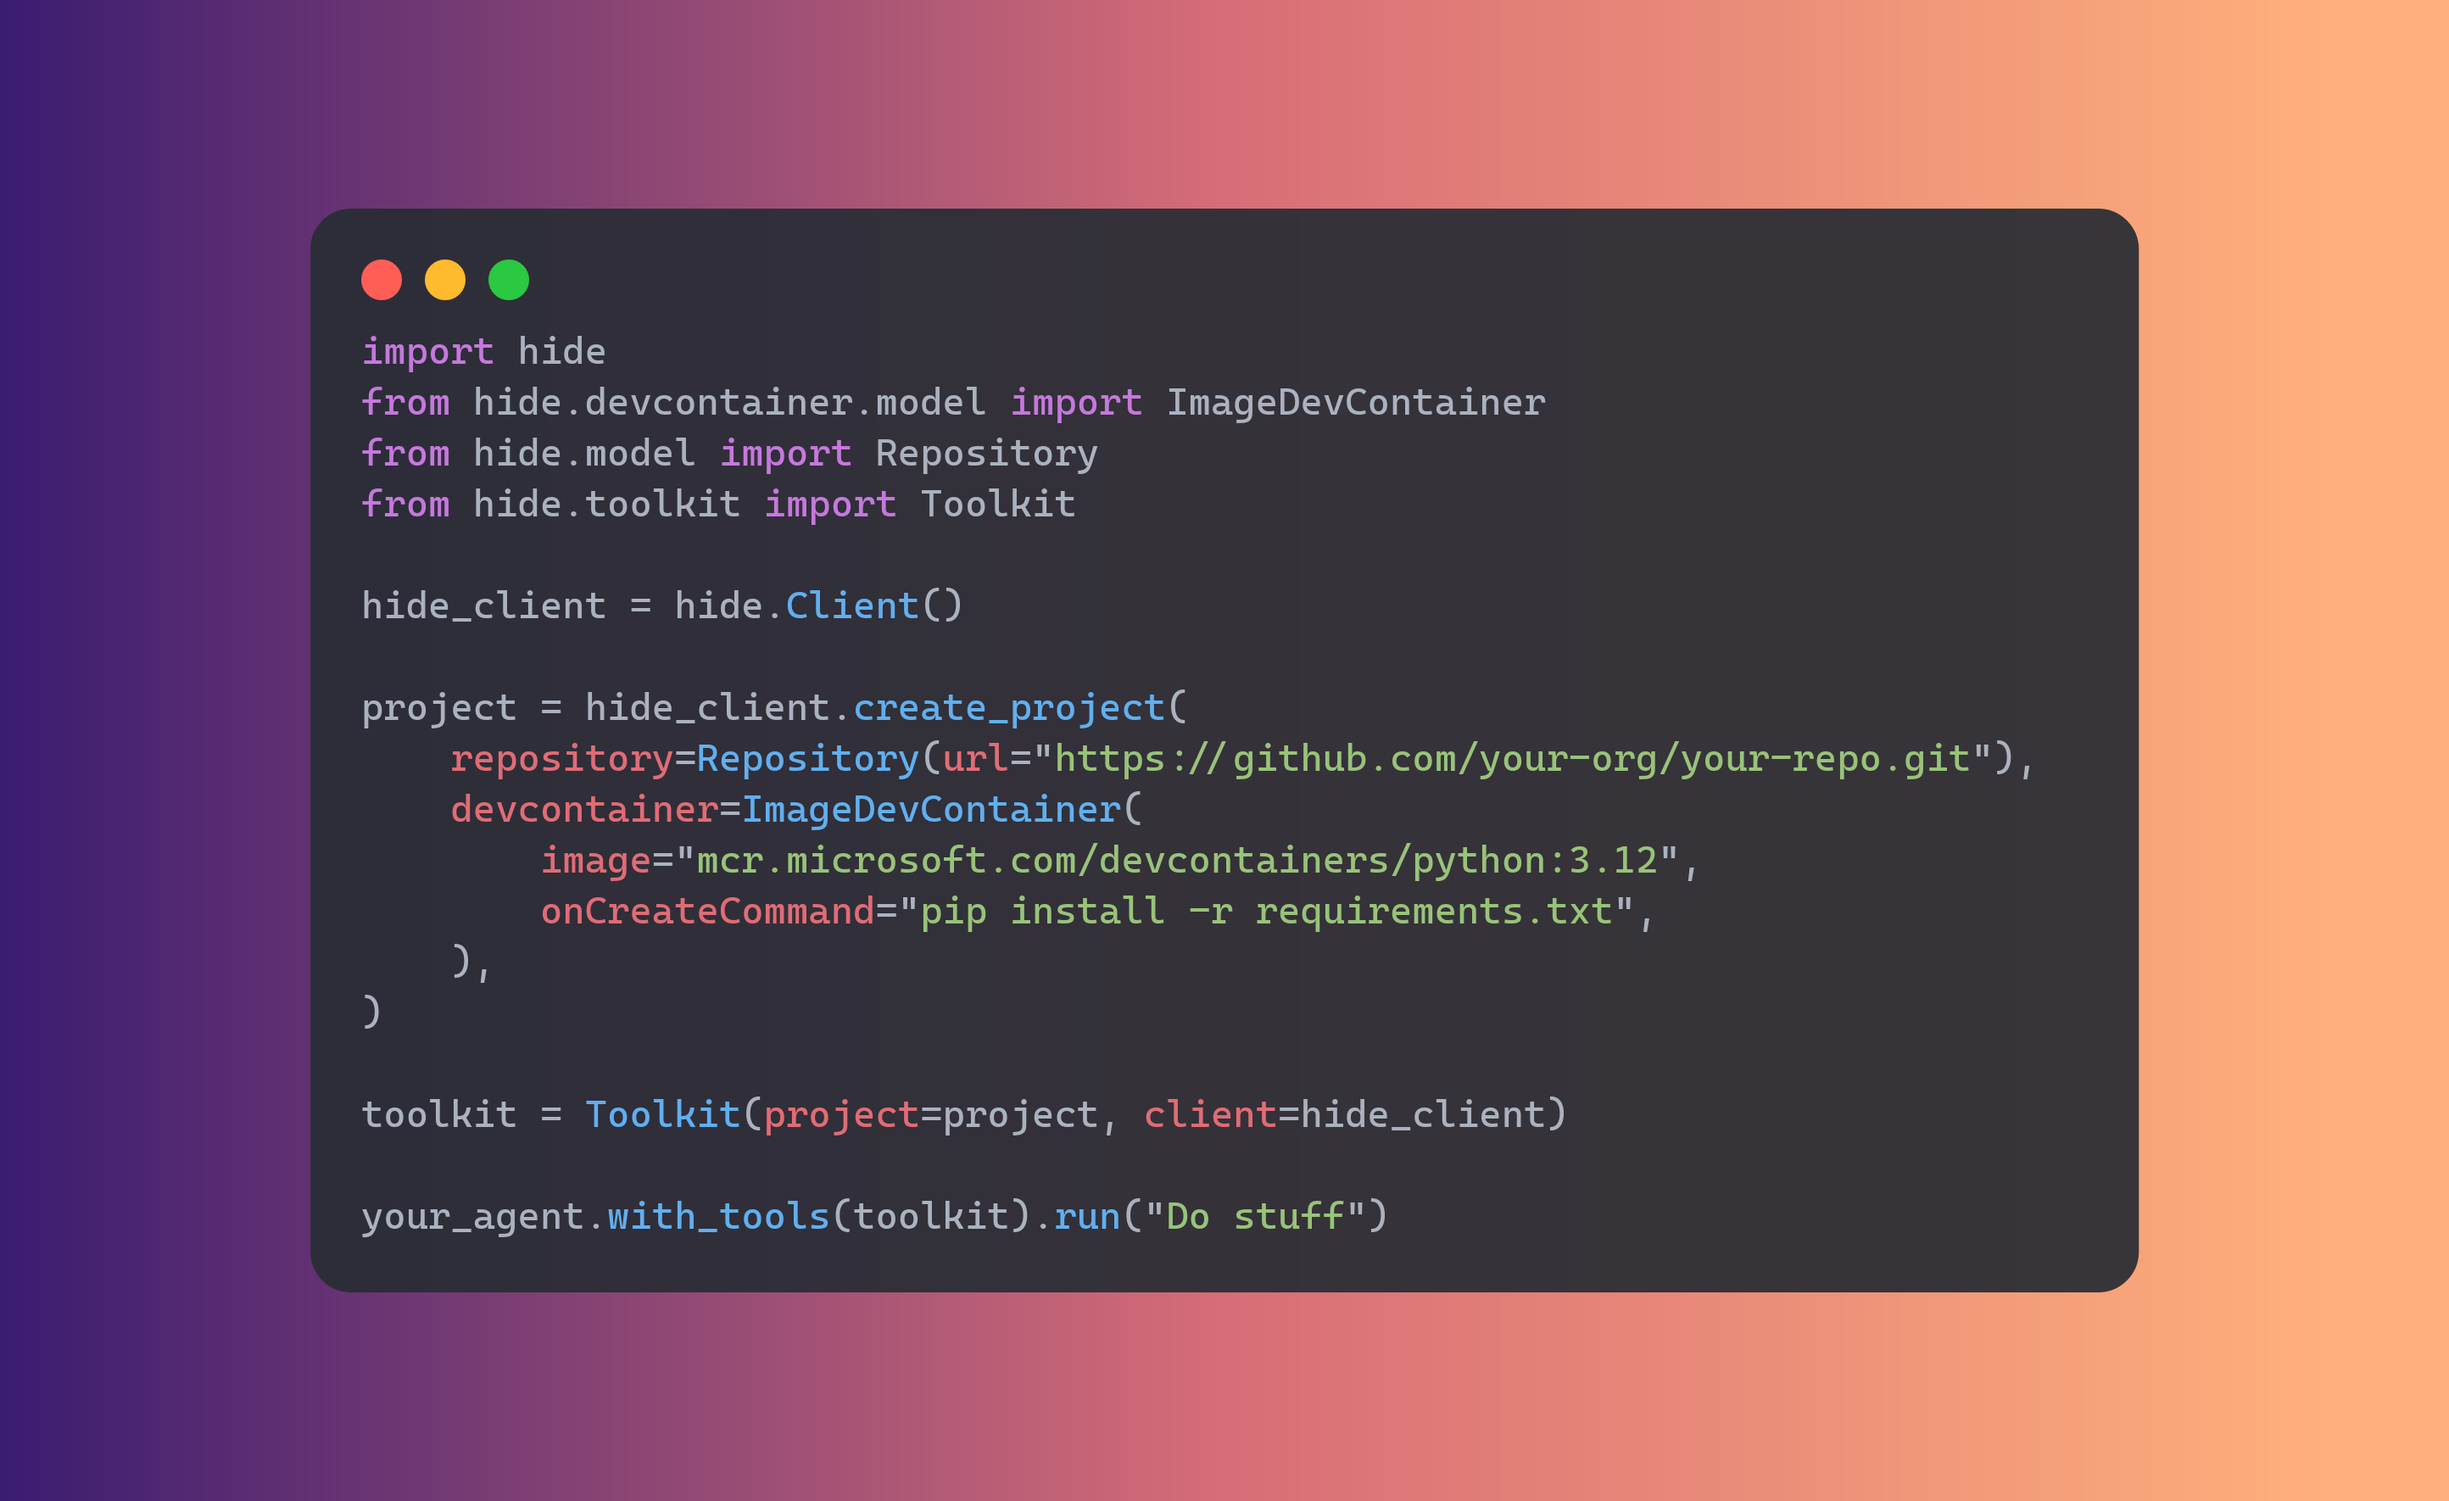
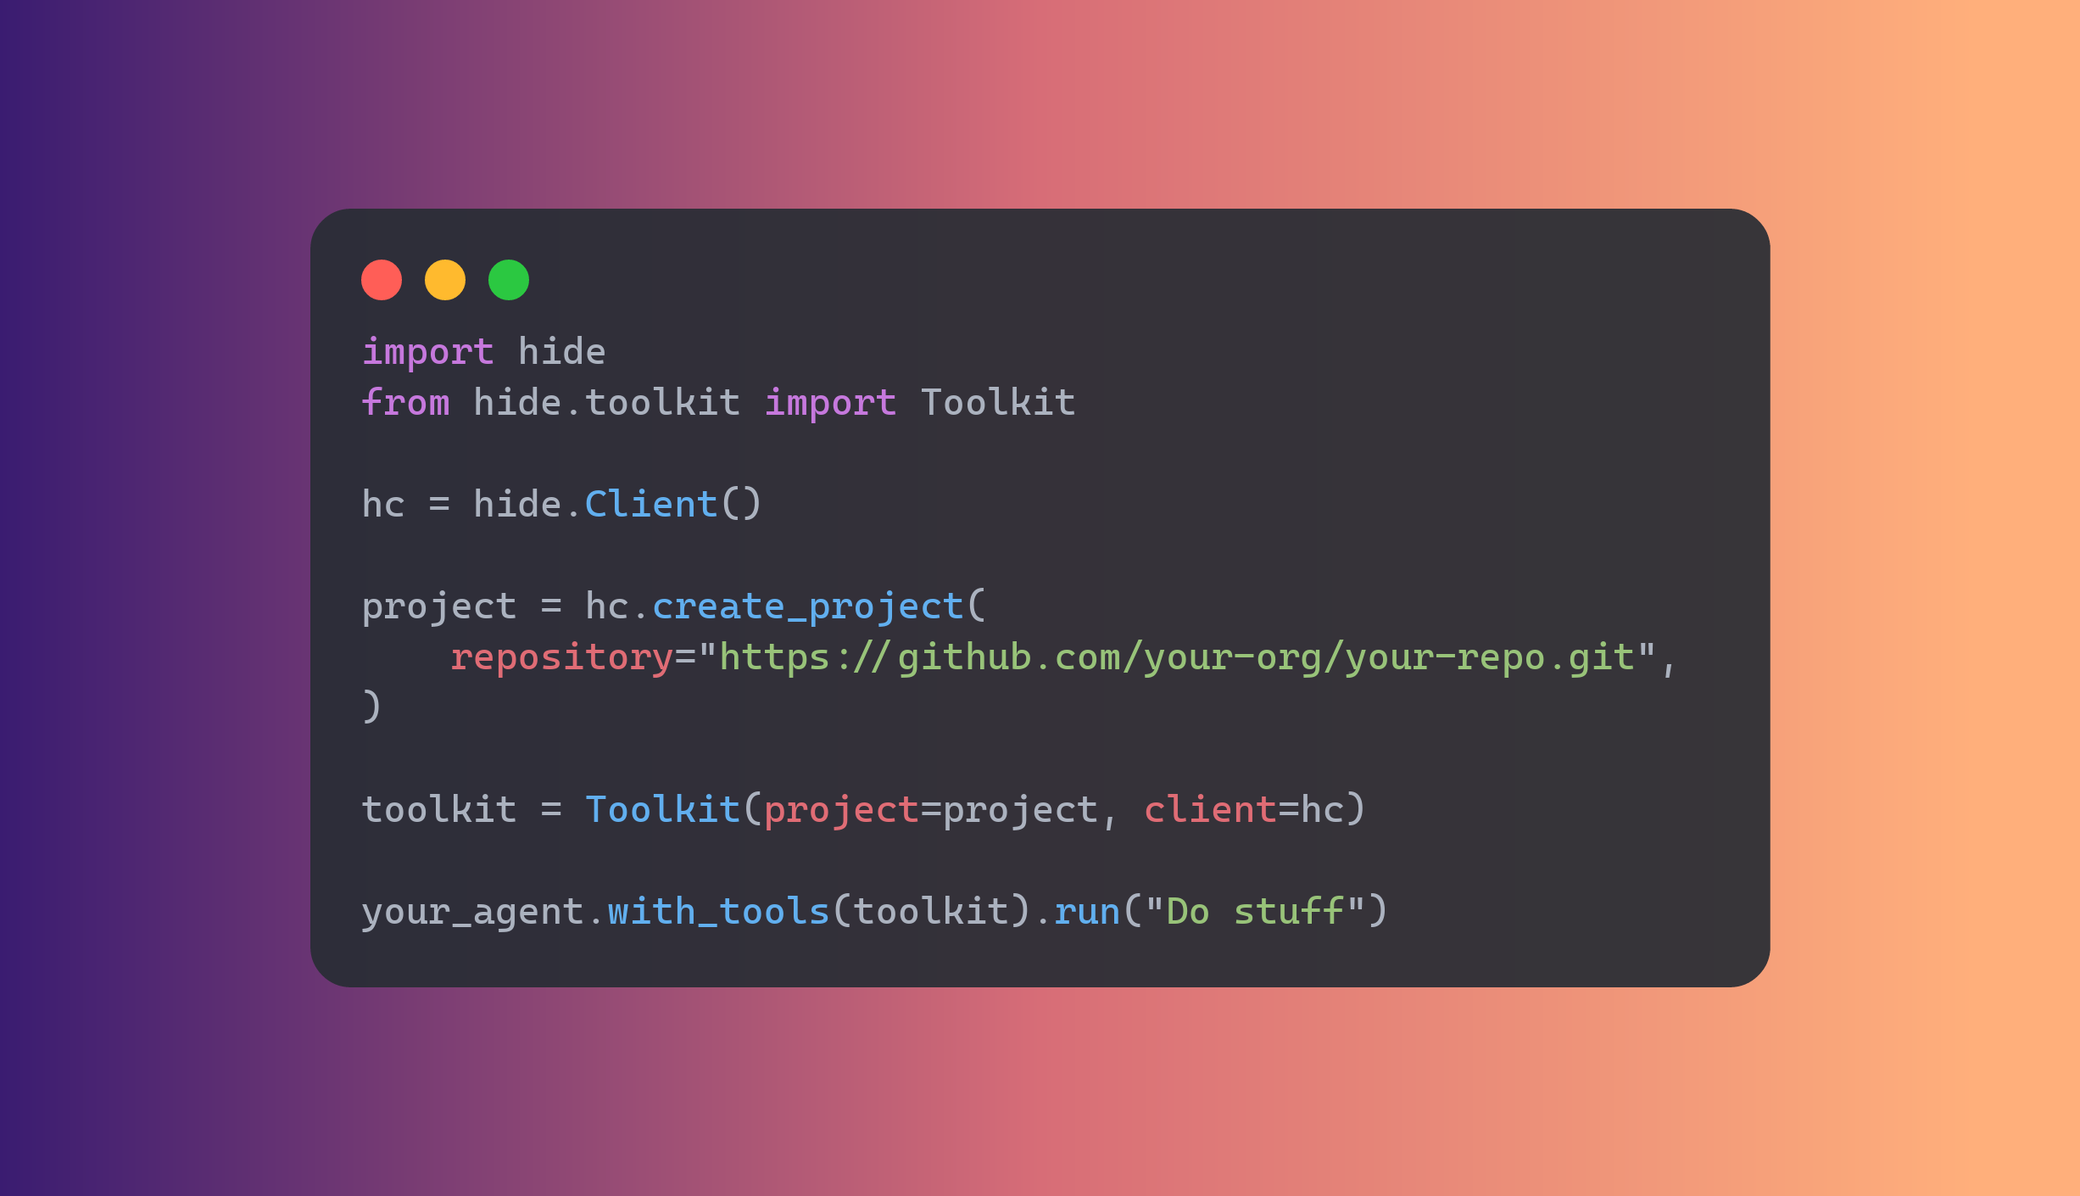
Create separate README for GitHub

diff --git a/docs/quickstart.md b/docs/quickstart.md
@@ -1,37 +1,39 @@
 # Quickstart
 
-In this quickstart, we will demonstrate how to create new Hide projects and let agents interact with them.
+In this quickstart, we will demonstrate how to create new Hide projects and let agents interact with them. We will explore Hide APIs and build a real coding agent using Langchain.
 
-!!! note
+This quickstart assumes that you have already installed Hide Runtime and SDK, and have Runtime running on your local machine. If you haven't done so, please refer to the [Installation](installation.md) guide.
 
-    This quickstart assumes that you have already installed Hide Runtime and SDK, and have Runtime running on your local machine. If you haven't done so, please refer to the [Installation](installation.md) guide.
+## Requirements
+
+- Python 3.10+
+- Hide Runtime running on your local machine
+- Hide SDK installed (`pip install hide-py`)
 
 ## Creating a Client
 
-To interact with the Hide server, we need to create a client. We can do this by importing `hide` and creating an instance of `hide.Client`:
+To interact with the Hide Runtime, we need to create a client. We can do this by importing `hide` and creating an instance of `hide.Client`:
 
 ```python
 import hide
-from hide.devcontainer.model import ImageDevContainer
-from hide.model import FileUpdateType, UdiffUpdate, Repository
-from hide.toolkit import Toolkit
+from hide import model
 
 hc = hide.Client()
 ```
 
-By default, the client will connect to the Hide runtime running on `http://localhost:8080`. If you have Hide running on a different host or port, you can specify it when creating the client:
+By default, the client will connect to the runtime running on `http://localhost:8080`. If you have Hide running on a different host or port, you can specify it when creating the client:
 
 ```python
-hc = hide.Client(base_url="https://my-hide-server:8081")
+hc = hide.Client(base_url="https://my-hide-runtime:8081")
 ```
 
 ## Creating a Project
 
-A project is a containerized development environment for a specific codebase. Creating a project consists of cloning the repository and setting up a devcontainer. We can do this by calling the `create_project` method on the client and passing a URL of the project on GitHub:
+A project is a containerized development environment for a specific codebase. Creating a project consists of cloning the repository, setting up a devcontainer, and initializing the development environment. We can do this by calling the `create_project` method on the client and passing a URL of the project on GitHub:
 
 ```python
 project = hc.create_project(
-    Repository(url="https://github.com/artmoskvin/tiny-math-service.git")
+    repository=model.Repository(url="https://github.com/artmoskvin/tiny-math-service.git")
 )
 ```
 
@@ -41,11 +43,13 @@ Here, we use the [Tiny Math Service](https://github.com/artmoskvin/tiny-math-ser
 
     [Devcontainers](https://containers.dev/) is a specification for creating reproducible development environments.
 
-If your project doesn't have a devcontainer configuration, you can define one as part of the project creation request using the `devcontainer` parameter:
+If your repository doesn't have a devcontainer configuration, you can define one as part of the project creation request using the `devcontainer` parameter:
 
 ```python
+from hide.devcontainer.model import ImageDevContainer
+
 project = hc.create_project(
-    repository=Repository(url="https://github.com/artmoskvin/tiny-math-service.git"),
+    repository=model.Repository(url="https://github.com/artmoskvin/tiny-math-service.git"),
     devcontainer=ImageDevContainer(
         image="mcr.microsoft.com/devcontainers/python:3.12-bullseye",
         onCreateCommand="pip install poetry && poetry install",
@@ -65,11 +69,11 @@ Creating a project can take some time. Under the hood, Hide clones the repositor
 
 ## Using the Client
 
-Before we jump to the coding agents, let's take a look at how we can interact with the project we created in the previous section. It is important to develop intuition for how the Hide APIs work and how agents can interact with them.
+Before we jump to the coding agents, let's take a look at how you can interact with the project created in the previous section. This will help you develop an intuition for how the Hide APIs work and how agents can interact with them.
 
 ### Running Tasks
 
-You could notice that the devcontainer [configuration](https://github.com/artmoskvin/tiny-math-service/blob/main/.devcontainer.json) for the [Tiny Math Service](https://github.com/artmoskvin/tiny-math-service) contains a `customizations` section that defines a custom task called `test`. We can use this task to run tests in our project:
+You could notice that the devcontainer [configuration](https://github.com/artmoskvin/tiny-math-service/blob/main/.devcontainer.json) for the [Tiny Math Service](https://github.com/artmoskvin/tiny-math-service) contains a `customizations` section that defines a custom task called `test`. We can use this alias to run tests in our project:
 
 ```python
 result = hc.run_task(
@@ -104,7 +108,7 @@ The tasks are executed from the project root so the print statement outputs the 
 
 ### Reading and Updating Files
 
-We can also read and update files in the project. For example, we can read the `maths.py` file and add a new endpoint in it. First, let's read the file:
+We can also read and update files in the project. For example, let's read the `maths.py` file and add a new endpoint in it. First, let's read the file:
 
 ```python
 file = hc.get_file(
@@ -128,9 +132,13 @@ print(file)
 #115 |         ) from e
 ```
 
-The file includes line numbers which can be useful when coding agents update files by adding/replacing lines or by applying unified diffs.
+The file includes line numbers which can be useful when coding agents update files. Updating files can be done in three ways: by replacing the entire file, by manipulating lines, or by applying unified diffs.
 
-Updating files can be done in three ways: by replacing the entire file, by manipulating lines, or by applying unified diffs. For now, let's use the unified diff:
+!!! note
+
+    The [Unified Diff](https://en.wikipedia.org/wiki/Diff_utility#Unified_format) is a format for comparing two files or versions of a file.
+
+Let's see how the unified diff works:
 
 ```python
 
@@ -153,14 +161,14 @@ patch = """\
 +    return MathsResult(
 +        **maths_input.dict(),
 +        operation="exp",
-+        result=maths_input.number1 ** maths_input.number2,
++        result=maths_input.number1 ** maths_input.number,
 +    )
 """
 
 file = hc.update_file(
     project_id=project.id, 
     path='my_tiny_service/api/routers/maths.py',
-    update=UdiffUpdate(patch=patch)
+    update=model.UdiffUpdate(patch=patch)
 )
 
 print(file)
@@ -178,9 +186,18 @@ print(file)
 #125 |     return MathsResult(
 #126 |         **maths_input.dict(),
 #127 |         operation="exp",
-#128 |         result=maths_input.number1 ** maths_input.number2,
+#128 |         result=maths_input.number1 ** maths_input.number,
+#                                                        ^^^^^^ Error: Cannot access attribute "number" for class "MathsIn"
+#  Attribute "number" is unknown
+#
 #129 |     )
 ```
+
+It turns out there was a typo in my patch but Hide noticed it and highlighted the line with the error. Like a normal IDE, Hide runs continuous diagnostics on the code using LSP servers and highlights errors. Currently, Hide provides diagnostics for Python, JavaScript, TypeScript, and Go, and we can add more languages if needed. Let us know in the GitHub Issues if you need support for other languages.
+
+!!! note
+
+    The [Language Server Protocol (LSP)](https://microsoft.github.io/language-server-protocol/) defines the protocol used between an editor or IDE and a language server that provides language features like auto complete, go to definition, find all references etc.
 
 For more information on all the available update types and their parameters, see the [Files API](usage/files.md#updating-a-file) documentation.
 
@@ -188,13 +205,7 @@ For more information on all the available update types and their parameters, see
 
 Finally, let's take a look at how we can use the Hide toolkit to build a coding agent. For this quickstart, we will use the [Langchain](https://www.langchain.com/langchain) framework to build a simple coding agent that can solve coding problems based on a given prompt.
 
-First, let's install Langchain:
-
-```bash
-pip install langchain
-```
-
-Next, let's initialize the toolkit:
+First, let's initialize the toolkit:
 
 ```python
 from hide.toolkit import Toolkit
@@ -235,7 +246,7 @@ os.environ["OPENAI_API_KEY"] = "YOUR_OPENAI_API_KEY"
 
 from langchain_openai import ChatOpenAI
 
-llm = ChatOpenAI(model="gpt-4o")
+llm = ChatOpenAI(model="gpt-4o", seed=128)
 prompt = hub.pull("hwchase17/openai-tools-agent")
 tools = lc_toolkit.get_tools()
 
@@ -267,6 +278,6 @@ print(response["output"])
 
 This task will require the agent to use multiple tools from the Hide toolkit. The agent will first read the content of the `maths.py` and `test_api.py` files, then update them according to the instructions, and finally run the tests. If the tests fail the agent will try to fix them. It can take few rounds but eventually the agent will succeed.
 
-## Conclusion
+## Next Steps
 
-In this quickstart, we demonstrated how to create new Hide projects and let agents interact with them. For more details, check out our [Guides](./usage/index.md) and [Tutorials](./tutorials/index.md).
+In this quickstart, we demonstrated how to create new Hide projects and let agents interact with them. For more details on how to use Hide, check out our [Guides](./usage/index.md) and [Tutorials](./tutorials/index.md).

diff --git a/README.md b/README.md
@@ -1,0 +1,85 @@
+# Hide: Headless IDE for Coding Agents
+<div style="display: flex; justify-content: center;">
+  <img src="docs/assets/hide-quickstart.png" alt="Hide Quickstart"/>
+</div>
+
+Hide provides containerized development environments for codebases and exposes APIs for agents to interact with them. When given a code repo, Hide spins up a devcontainer, installs the dependencies and provides APIs for codebase interaction. Developers can craft custom toolkits using Hide APIs or use Hide's pre-built toolkits for popular frameworks like Langchain.
+
+A typical installation for Hide consists of 2 parts: a runtime that runs on a local or remote Docker host, and an SDK that interacts with it. Runtime is the backend system responsible for managing development containers and executing tasks. SDK is a set of APIs and toolkits designed for coding agents to interact with the codebase.
+
+This repository contains the source code for the Hide Runtime. For more information on how to use Hide and Hide SDK, go to our documentation site: https://hide.sh
+
+## Installation
+
+Hide Runtime can be installed using [Homebrew](https://brew.sh/) or built from source.
+
+### Prerequisites
+
+Hide Runtime requires Docker Engine to be installed on your system. Note that if you intend to use Hide with a remote Docker host, you will need to install Docker Engine on that host.
+
+For installation instructions for your OS, see the [Docker Engine documentation](https://docs.docker.com/engine/install/).
+
+### Using Homebrew
+
+1. Add the Hide tap to your Homebrew:
+
+    ```bash
+    brew tap artmoskvin/hide
+    ```
+
+2. Install Hide using the brew install command:
+
+    ```bash
+    brew install hide
+    ```
+
+### Building from Source
+
+To build Hide from source, follow these steps:
+
+1. Ensure you have [Go 1.22+](https://go.dev/) or later installed on your system.
+2. Clone the Hide repository:
+
+    ```bash
+    git clone https://github.com/artmoskvin/hide.git
+    cd hide
+    ```
+
+3. Build the project:
+
+    ```bash
+    make build
+    ```
+
+4. (Optional) Install Hide to your `$GOPATH/bin` directory:
+
+    ```bash
+    make install
+    ```
+
+## Quickstart
+
+You can start the runtime by running the following command:
+
+```bash
+hide run
+```
+
+You should see logs indicating that the server is running, something like: `Server started on 127.0.0.1:8080`. For more options, including how to specify the port, see help:
+
+```bash
+hide --help
+```
+
+## Contributing
+
+See [CONTRIBUTING.md](./docs/CONTRIBUTING.md) for information on how to contribute to Hide.
+
+## Development
+
+See [DEVELOPMENT.md](./docs/DEVELOPMENT.md) for information on how to develop Hide.
+
+## License
+
+Hide is licensed under the [MIT License](./LICENSE).
+

diff --git a/docs/installation.md b/docs/installation.md
@@ -12,7 +12,7 @@ SDK is a set of APIs and toolkits designed for coding agents to interact with th
 
 Hide Runtime requires Docker Engine to be installed on your system. Note that if you intend to use Hide with a remote Docker host, you will need to install Docker Engine on that host.
 
-For installation instructions for your OS, see to the [Docker Engine documentation](https://docs.docker.com/engine/install/).
+For installation instructions for your OS, see the [Docker Engine documentation](https://docs.docker.com/engine/install/).
 
 ## Runtime
 

diff --git a/docs/index.md b/docs/index.md
@@ -3,7 +3,7 @@
   <img src="assets/hide-quickstart.png" alt="Hide Quickstart"/>
 </div>
 
-Hide is a headless IDE for coding agents. It provides containerized development environments with your codebase inside and exposes APIs for agents to interact with it.
+Hide is a headless IDE for coding agents. It provides containerized development environments for codebases and exposes APIs for agents to interact with them.
 
 ## Features
 
